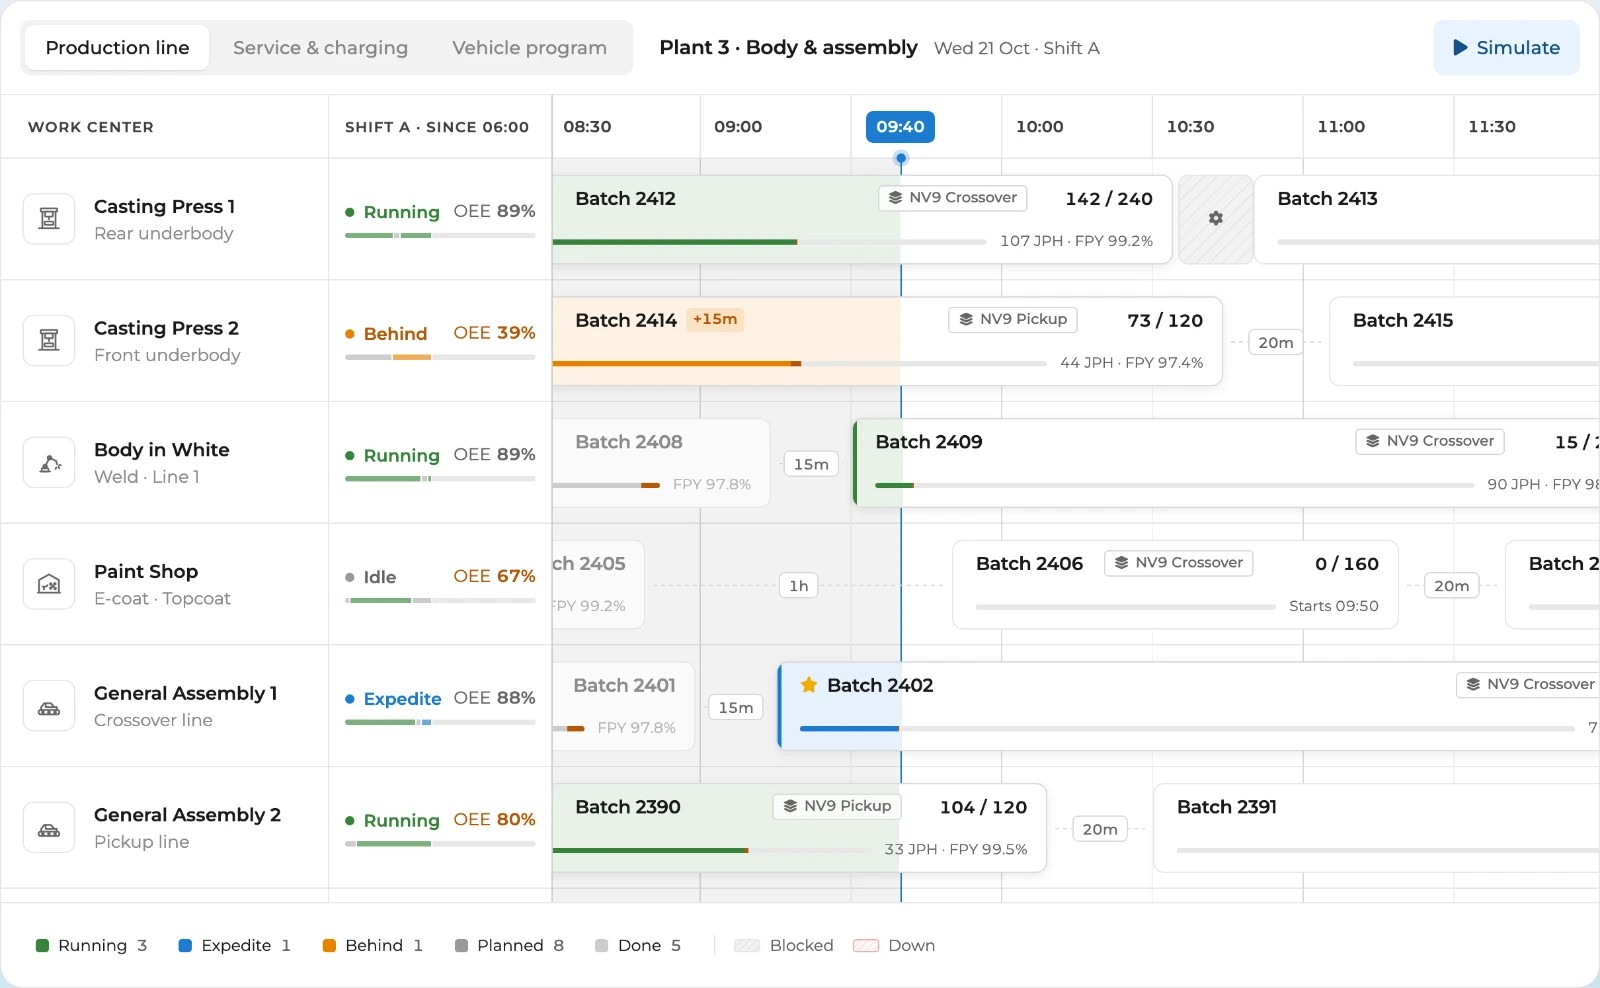
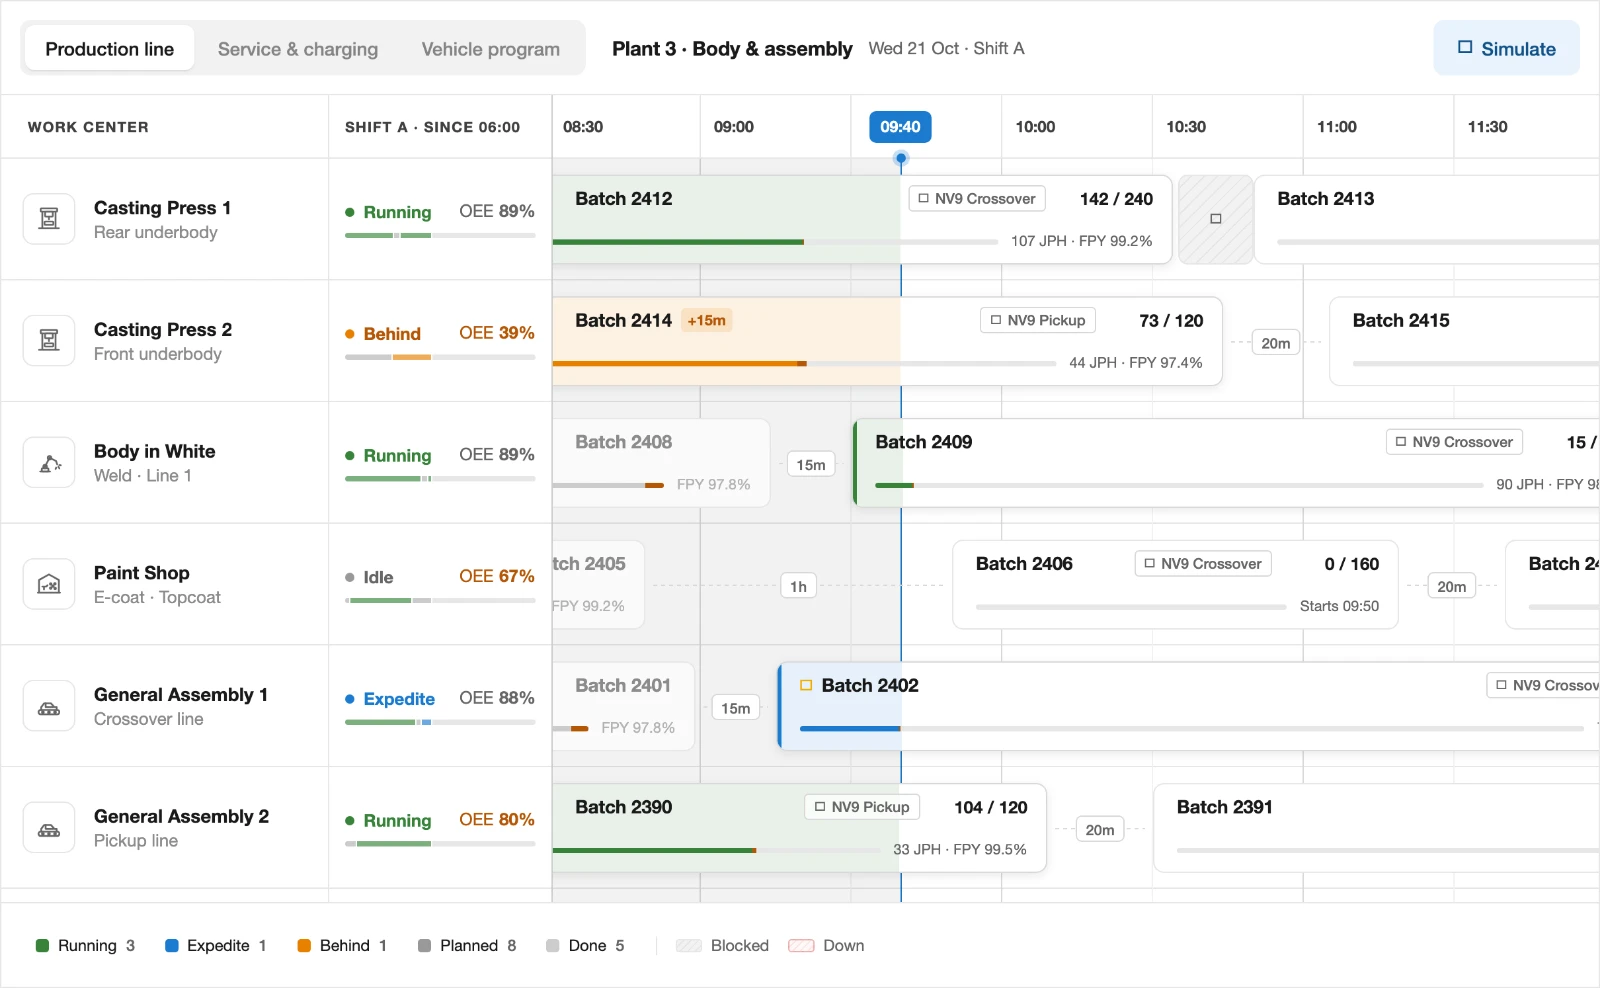
Gallery screenshots with square corners
The screenshot script captures the app panel without its corner radius and shadow, so the page behind the rounded
corners no longer shows in the images; the gallery tile rounds them itself. All showcases' images regenerated.

diff --git a/scripts/screenshots.js b/scripts/screenshots.js
@@ -50,10 +50,13 @@ const
             }
         }
     ],
-    // The trial badge out, the panel at the capture size
+    // The trial badge out, the panel at the capture size and square: the gallery tile rounds the image itself, the
+    // panel's own corners would show the page behind them
     captureCss = `
         .b-license-badge { display : none !important; }
-        .sc-container > .b-outer { flex : none; width : ${width}px; height : ${height}px; }
+        .sc-container > .b-outer {
+            flex : none; width : ${width}px; height : ${height}px; border-radius : 0; box-shadow : none;
+        }
     `;
 
 /**
